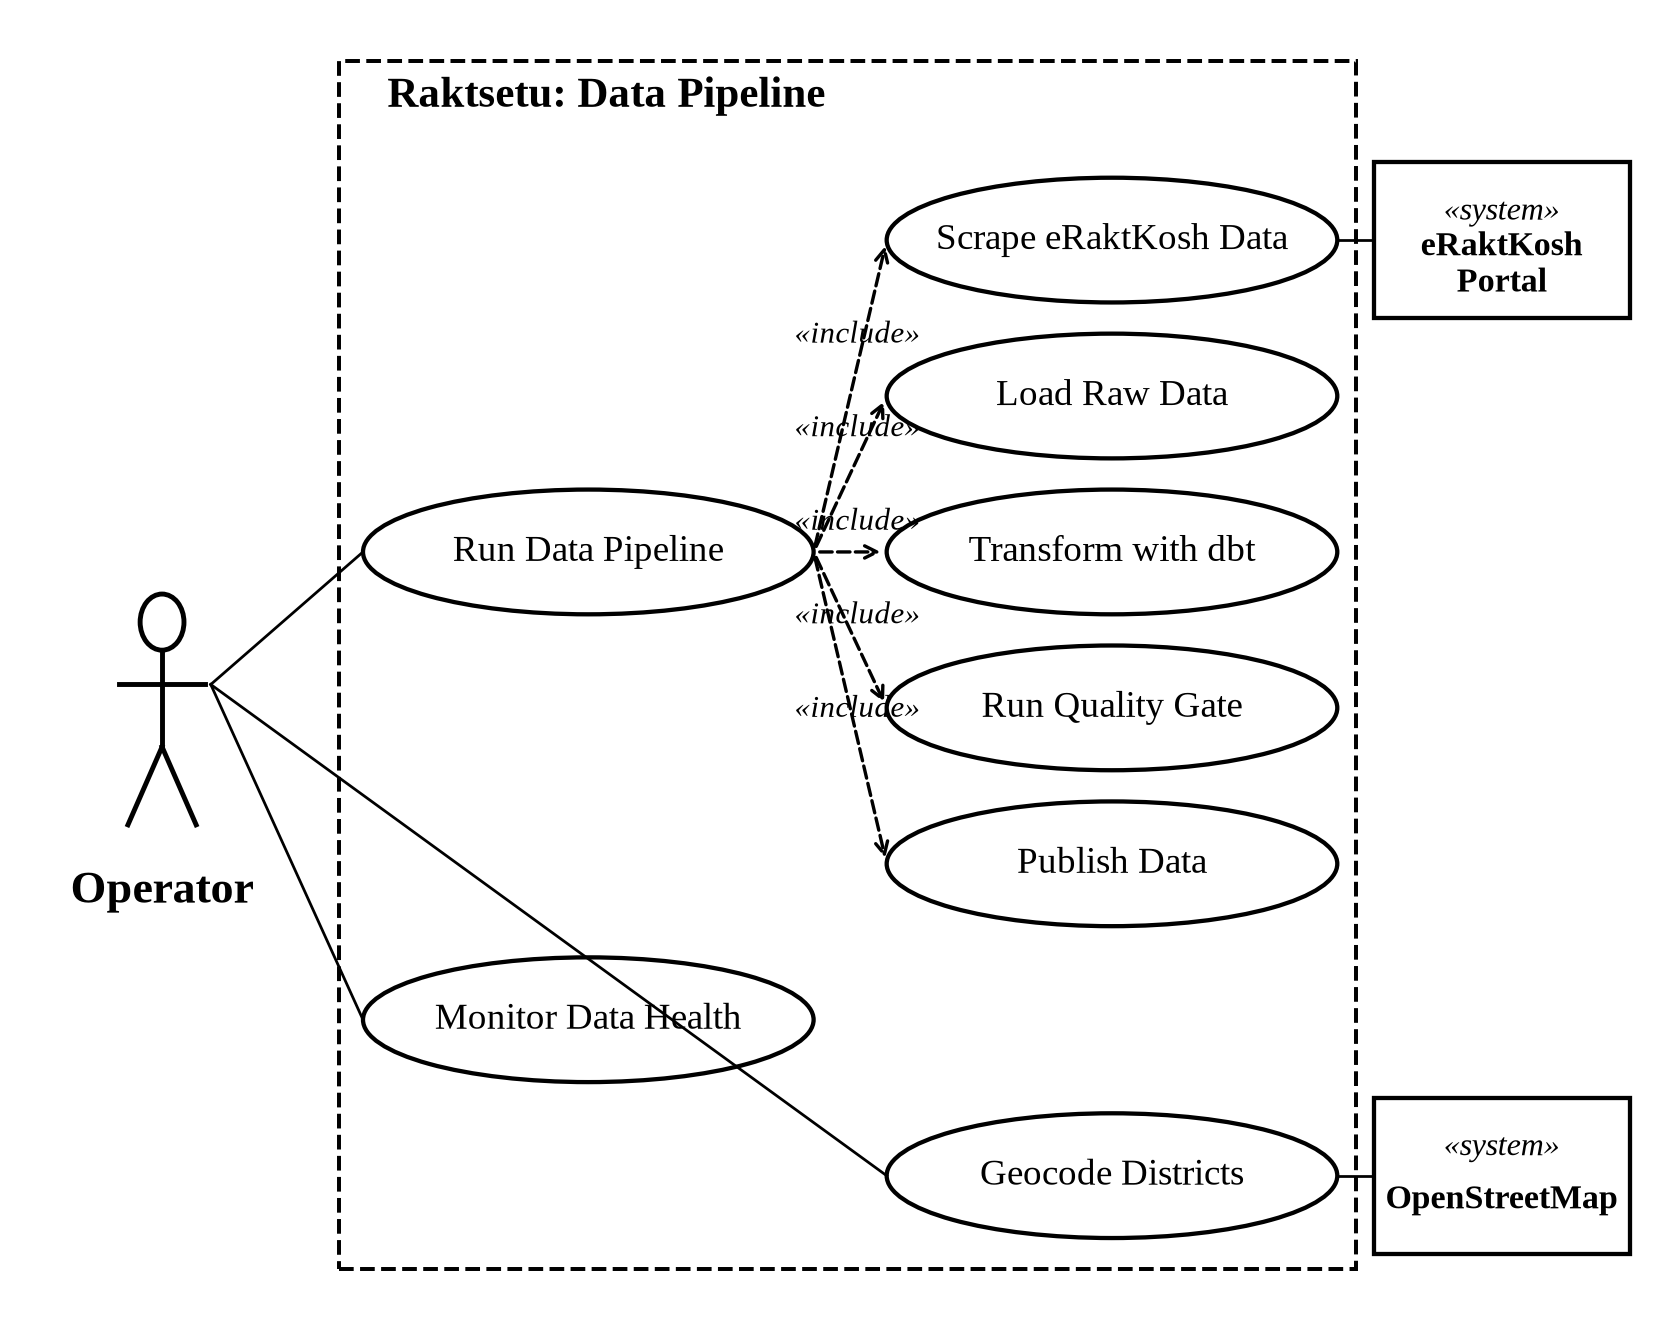
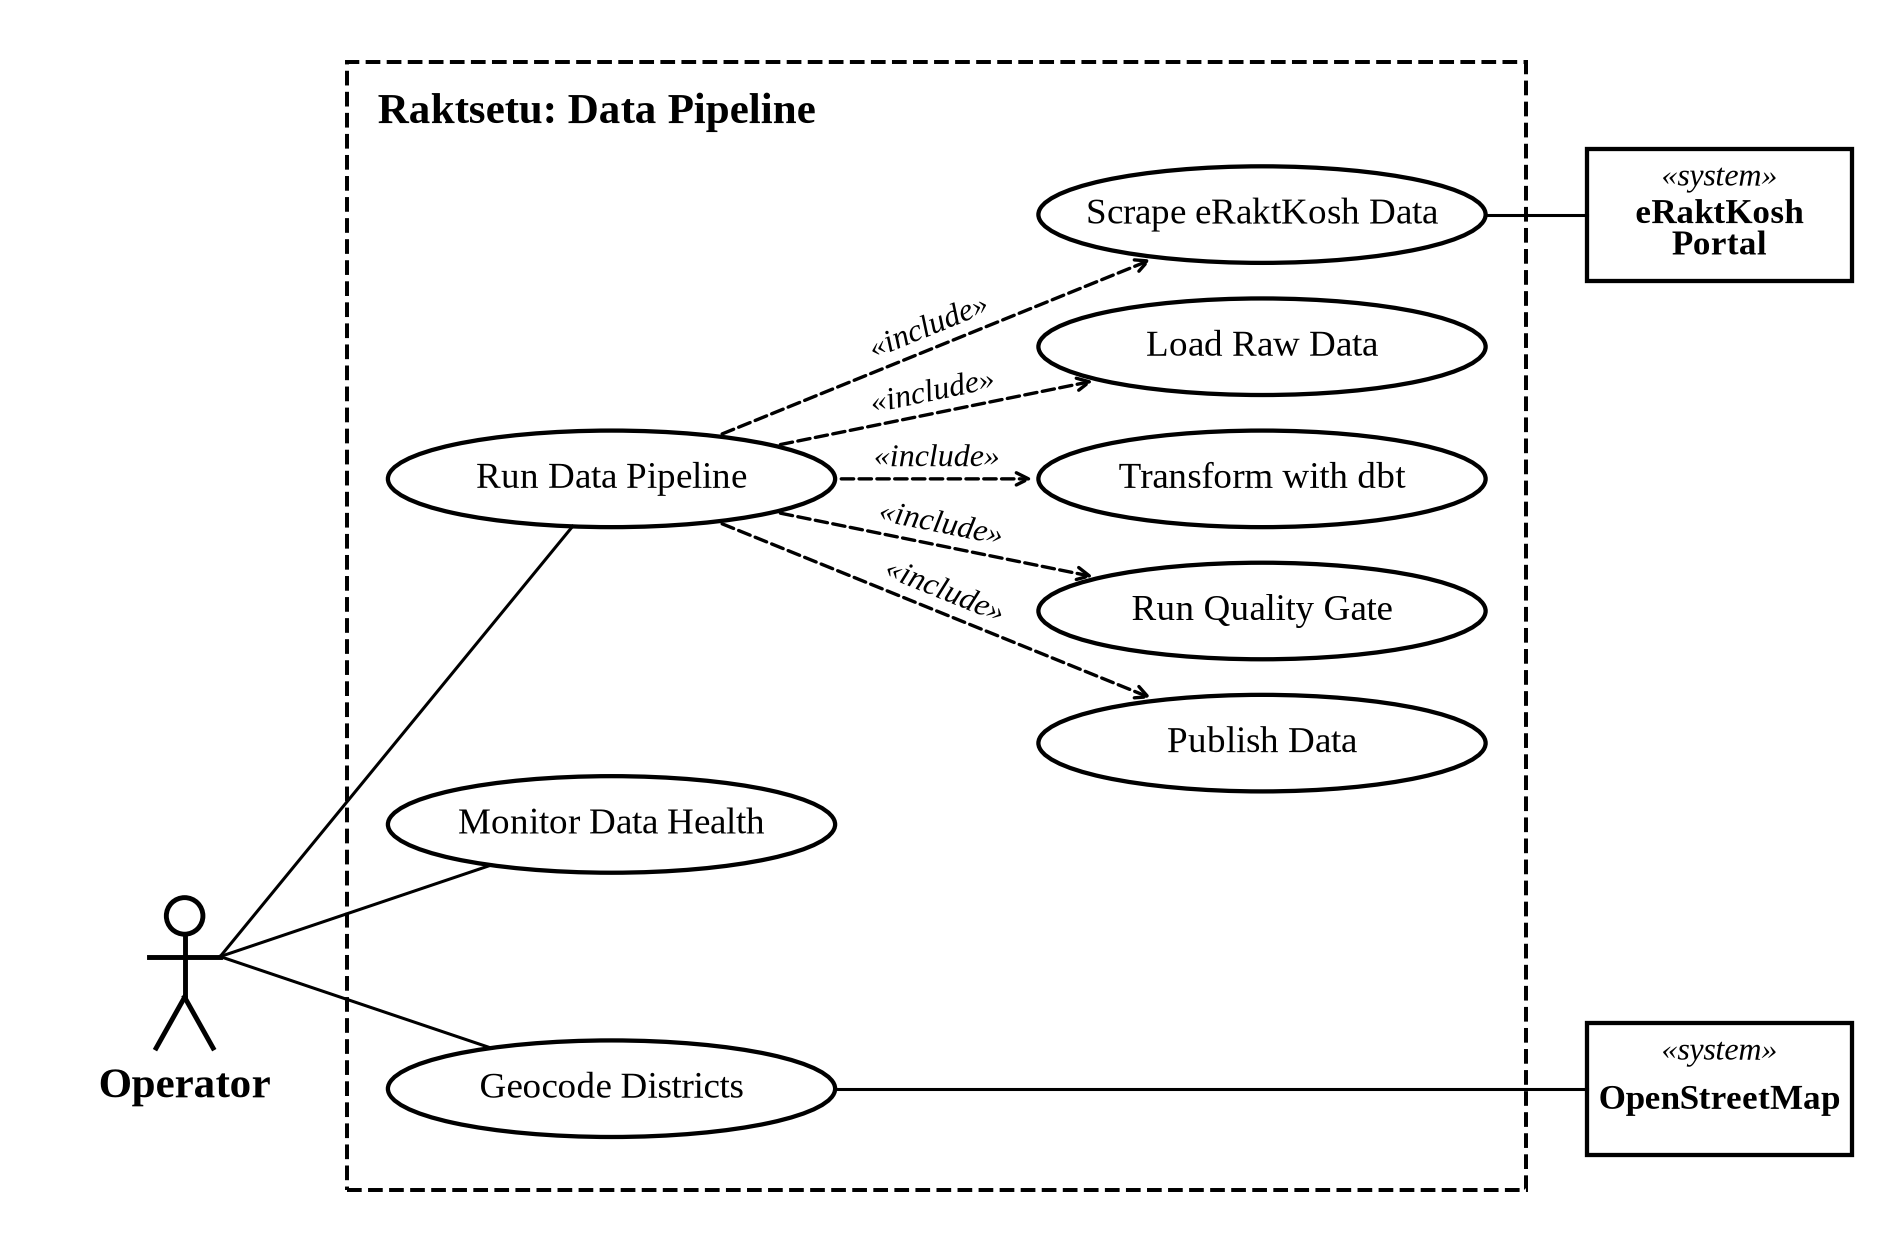
docs: redraw use case diagrams with clean, non-crossing layout

diff --git a/scripts/report/generate_diagrams.py b/scripts/report/generate_diagrams.py
@@ -8,11 +8,12 @@ stays readable when the image is placed at full page width (about 6.2 inches).
 Usage: uv run python scripts/report/generate_diagrams.py
 """
 
+import math
 import subprocess
 from pathlib import Path
 
 import matplotlib.pyplot as plt
-from matplotlib.patches import Ellipse, Rectangle
+from matplotlib.patches import Ellipse, Polygon, Rectangle
 
 OUT_DIR = Path(__file__).resolve().parents[2] / "docs" / "diagrams"
 plt.rcParams["font.family"] = ["Liberation Serif", "DejaVu Serif"]
@@ -242,108 +243,156 @@ def activity_pipeline():
 # ---------------------------------------------------------------------------
 # Use case diagram (stick-figure actors, ellipses, system boundary)
 # ---------------------------------------------------------------------------
-def _actor(ax, x, y, name):
+def _actor(ax, x, y, name, label_above=False):
     ax.add_patch(plt.Circle((x, y + 0.55), 0.18, fill=False, lw=1.6))
     ax.plot([x, x], [y + 0.37, y - 0.25], "k", lw=1.6)
     ax.plot([x - 0.35, x + 0.35], [y + 0.15, y + 0.15], "k", lw=1.6)
     ax.plot([x, x - 0.28], [y - 0.25, y - 0.75], "k", lw=1.6)
     ax.plot([x, x + 0.28], [y - 0.25, y - 0.75], "k", lw=1.6)
-    ax.text(x, y - 1.05, name, ha="center", va="top", fontsize=15, fontweight="bold")
+    ty, va = (y + 0.9, "bottom") if label_above else (y - 0.95, "top")
+    ax.text(x, ty, name, ha="center", va=va, fontsize=14, fontweight="bold")
 
 
 # ---------------------------------------------------------------------------
-# Use case diagrams (stick-figure actors, system actors, include / extend)
+# Use case diagrams (stick-figure actors, system actors, include / extend, generalization)
+# Layout is fixed by hand so that no line crosses another line, ellipse or label.
 # ---------------------------------------------------------------------------
-COL_X = (4.25, 8.55)
-EW, EH = 3.7, 0.8
+EW, EH = 4.4, 0.95
 
 
 def _system_actor(ax, x, y, name):
-    ax.add_patch(Rectangle((x - 1.05, y - 0.5), 2.1, 1.0, fill=False, lw=1.4))
-    ax.text(x, y + 0.18, "«system»", ha="center", va="center", fontsize=10.5, style="italic")
-    ax.text(x, y - 0.16, name, ha="center", va="center", fontsize=11, fontweight="bold")
+    ax.add_patch(Rectangle((x - 1.3, y - 0.65), 2.6, 1.3, fill=False, lw=1.4))
+    ax.text(x, y + 0.36, "«system»", ha="center", va="center", fontsize=10.5, style="italic")
+    ax.text(
+        x,
+        y - 0.12,
+        name,
+        ha="center",
+        va="center",
+        fontsize=11.5,
+        fontweight="bold",
+        linespacing=1.0,
+    )
 
 
-def draw_use_case(name, title, cases, actors, systems, links, rels, rows):
-    fig, ax = plt.subplots(figsize=(9.5, rows * 0.92 + 1.2))
-    ax.set_xlim(-0.4, 12.9)
-    ax.set_ylim(-0.9, rows + 0.4)
+def _edge(c, toward):
+    """Point on the ellipse centred at c, in the direction of `toward`."""
+    dx, dy = toward[0] - c[0], toward[1] - c[1]
+    t = 1 / math.hypot(dx / (EW / 2), dy / (EH / 2))
+    return c[0] + dx * t, c[1] + dy * t
+
+
+def draw_use_case(name, title, box, cases, actors, systems, links, rels, gens=None):
+    x0, y0, x1, y1 = box
+    xs = [x for _, x, _ in cases.values()] + [a[1] for a in actors] + [sy[1] for sy in systems]
+    xmin, xmax = min(xs + [x0]) - 1.6, max(xs + [x1]) + 1.6
+    ymin, ymax = y0 - 0.4, y1 + 0.4
+    fig, ax = plt.subplots(figsize=((xmax - xmin) * 0.6, (ymax - ymin) * 0.6))
+    ax.set_xlim(xmin, xmax)
+    ax.set_ylim(ymin, ymax)
+    ax.set_aspect("equal")
     ax.axis("off")
-    ax.add_patch(Rectangle((2.2, -0.6), 8.35, rows + 0.75, fill=False, lw=1.3, ls="--"))
-    ax.text(2.6, rows + 0.05, title, fontsize=14, fontweight="bold", va="top")
+    ax.add_patch(Rectangle((x0, y0), x1 - x0, y1 - y0, fill=False, lw=1.3, ls="--"))
+    ax.text(x0 + 0.3, y1 - 0.3, title, fontsize=14, fontweight="bold", va="top")
     pos = {}
-    for cid, (label, col, row) in cases.items():
-        x, y = COL_X[col], rows - 1 - row
+    for cid, (label, x, y) in cases.items():
         pos[cid] = (x, y)
         ax.add_patch(Ellipse((x, y), EW, EH, fill=False, lw=1.4))
         ax.text(x, y, label, ha="center", va="center", fontsize=12)
-    apos = {}
-    for aname, row in actors:
-        apos[aname] = (0.75, rows - 1 - row)
-        _actor(ax, 0.75, rows - 1 - row, aname)
-    for sname, row in systems:
-        apos[sname] = (11.75, rows - 1 - row)
-        _system_actor(ax, 11.75, rows - 1 - row, sname)
+    anchor = {}
+    for aname, x, y, *opt in actors:
+        _actor(ax, x, y, aname, label_above=bool(opt and opt[0]))
+        anchor[aname] = (x, y + 0.15, 0.35)
+    for sname, x, y in systems:
+        _system_actor(ax, x, y, sname)
+        anchor[sname] = (x, y, 1.3)
     for a, cid in links:
-        ax_, ay = apos[a]
-        cx, cy = pos[cid]
-        if ax_ < 5:
-            ax.plot([ax_ + 0.4, cx - EW / 2], [ay + 0.15, cy], "k", lw=0.9)
-        else:
-            ax.plot([ax_ - 1.05, cx + EW / 2], [ay, cy], "k", lw=0.9)
+        x, y, half = anchor[a]
+        c = pos[cid]
+        start = (x - half if c[0] < x else x + half, y)
+        end = _edge(c, start)
+        ax.plot([start[0], end[0]], [start[1], end[1]], "k", lw=1.0)
     for src, dst, kind in rels:
-        (x1, y1), (x2, y2) = pos[src], pos[dst]
-        start = (
-            x1 - EW / 2 if x1 > x2 else x1 + EW / 2 if x1 < x2 else x1,
-            y1 if x1 != x2 else y1 - EH / 2,
-        )
-        end = (
-            x2 + EW / 2 if x1 > x2 else x2 - EW / 2 if x1 < x2 else x2,
-            y2 if x1 != x2 else y2 + EH / 2,
-        )
+        start, end = _edge(pos[src], pos[dst]), _edge(pos[dst], pos[src])
         ax.annotate("", end, start, arrowprops=dict(arrowstyle="->", lw=1.1, linestyle="--"))
-        mx, my = start[0] + (end[0] - start[0]) * 0.6, start[1] + (end[1] - start[1]) * 0.6
-        ax.text(mx, my + 0.1, f"«{kind}»", ha="center", va="bottom", fontsize=10, style="italic")
+        dx, dy = end[0] - start[0], end[1] - start[1]
+        ang = math.degrees(math.atan2(dy, dx))
+        if ang > 90 or ang < -90:
+            ang -= 180 if ang > 0 else -180
+        L = math.hypot(dx, dy)
+        nx, ny = -dy / L, dx / L
+        if ny < 0:
+            nx, ny = -nx, -ny
+        mx, my = start[0] + dx * 0.5 + nx * 0.2, start[1] + dy * 0.5 + ny * 0.2
+        ax.text(
+            mx,
+            my,
+            f"«{kind}»",
+            ha="center",
+            va="center",
+            fontsize=10.5,
+            style="italic",
+            rotation=ang,
+            rotation_mode="anchor",
+        )
+    for children, parent, trunk_x in gens or []:
+        px, py = next((a[1], a[2]) for a in actors if a[0] == parent)
+        ys = []
+        for ch in children:
+            cx, cy = next((a[1], a[2]) for a in actors if a[0] == ch)
+            ax.plot([cx + 0.18, trunk_x], [cy + 0.55, cy + 0.55], "k", lw=1.0)
+            ys.append(cy + 0.55)
+        top = py - 0.8
+        ax.plot([trunk_x, trunk_x], [min(ys), top - 0.3], "k", lw=1.0)
+        ax.add_patch(
+            Polygon(
+                [(trunk_x - 0.17, top - 0.3), (trunk_x + 0.17, top - 0.3), (trunk_x, top)],
+                closed=True,
+                fill=True,
+                facecolor="white",
+                edgecolor="black",
+                lw=1.1,
+            )
+        )
     fig.savefig(OUT_DIR / f"{name}.png", dpi=220, bbox_inches="tight", facecolor="white")
     plt.close(fig)
 
 
 def use_case():
+    c0, c1 = 4.0, 10.0
     draw_use_case(
         "use_case_diagram",
         "Raktsetu: Public Website",
+        box=(1.4, -13.5, 12.6, 1.5),
         cases={
-            "emg": ("Search Emergency Blood", 0, 0),
-            "cmp": ("Check Blood Compatibility", 1, 0),
-            "near": ("Search Near My Location", 1, 1),
-            "find": ("Find Blood Centres", 0, 2),
-            "map": ("View Live Map", 1, 2),
-            "trend": ("View Trend & Trust Score", 1, 3),
-            "call": ("Call / Get Directions", 0, 4),
-            "rare": ("Check Rare Blood", 0, 5),
-            "short": ("View District Shortages", 0, 6),
-            "csv": ("Export CSV Report", 1, 6),
-            "net": ("View Network Statistics", 0, 7),
-            "donor": ("Check Donor Eligibility", 0, 8),
+            "cmp": ("Check Blood Compatibility", c0, 0),
+            "emg": ("Search Emergency Blood", c1, 0),
+            "near": ("Search Near My Location", c0, -1.3),
+            "map": ("View Live Map", c0, -2.6),
+            "find": ("Find Blood Centres", c1, -2.6),
+            "trend": ("View Trend & Trust Score", c0, -3.9),
+            "net": ("View Network Statistics", c1, -3.9),
+            "call": ("Call / Get Directions", c1, -5.6),
+            "rare": ("Check Rare Blood", c1, -8.0),
+            "csv": ("Export CSV Report", c0, -10.4),
+            "short": ("View District Shortages", c1, -10.4),
+            "donor": ("Check Donor Eligibility", c1, -12.9),
         },
         actors=[
-            ("Patient's Family", 0.2),
-            ("Doctor / Staff", 2.6),
-            ("Health Official", 5.0),
-            ("Blood Donor", 7.4),
+            ("Public User", 16.6, -1.8, True),
+            ("Patient's Family", 14.6, -5.75),
+            ("Doctor / Staff", 14.6, -8.15),
+            ("Health Official", 14.6, -10.55),
+            ("Blood Donor", 14.6, -13.05),
         ],
-        systems=[("Device GPS", 1.1)],
+        systems=[("Device GPS", -0.6, -1.3)],
         links=[
-            ("Patient's Family", "emg"),
-            ("Patient's Family", "find"),
+            ("Public User", "emg"),
+            ("Public User", "find"),
+            ("Public User", "net"),
             ("Patient's Family", "call"),
-            ("Doctor / Staff", "emg"),
-            ("Doctor / Staff", "find"),
             ("Doctor / Staff", "rare"),
-            ("Health Official", "find"),
             ("Health Official", "short"),
-            ("Health Official", "net"),
-            ("Blood Donor", "net"),
             ("Blood Donor", "donor"),
             ("Device GPS", "near"),
         ],
@@ -354,23 +403,30 @@ def use_case():
             ("trend", "find", "extend"),
             ("csv", "short", "extend"),
         ],
-        rows=9,
+        gens=[
+            (
+                ["Patient's Family", "Doctor / Staff", "Health Official", "Blood Donor"],
+                "Public User",
+                16.6,
+            )
+        ],
     )
     draw_use_case(
         "use_case_operator",
         "Raktsetu: Data Pipeline",
+        box=(1.4, -9.6, 13.0, 1.5),
         cases={
-            "run": ("Run Data Pipeline", 0, 2),
-            "scrape": ("Scrape eRaktKosh Data", 1, 0),
-            "load": ("Load Raw Data", 1, 1),
-            "dbt": ("Transform with dbt", 1, 2),
-            "gate": ("Run Quality Gate", 1, 3),
-            "pub": ("Publish Data", 1, 4),
-            "health": ("Monitor Data Health", 0, 5),
-            "geo": ("Geocode Districts", 1, 6),
+            "run": ("Run Data Pipeline", c0, -2.6),
+            "scrape": ("Scrape eRaktKosh Data", 10.4, 0),
+            "load": ("Load Raw Data", 10.4, -1.3),
+            "dbt": ("Transform with dbt", 10.4, -2.6),
+            "gate": ("Run Quality Gate", 10.4, -3.9),
+            "pub": ("Publish Data", 10.4, -5.2),
+            "health": ("Monitor Data Health", c0, -6.0),
+            "geo": ("Geocode Districts", c0, -8.6),
         },
-        actors=[("Operator", 3.0)],
-        systems=[("eRaktKosh\nPortal", 0), ("OpenStreetMap", 6)],
+        actors=[("Operator", -0.2, -7.45)],
+        systems=[("eRaktKosh\nPortal", 14.9, 0), ("OpenStreetMap", 14.9, -8.6)],
         links=[
             ("Operator", "run"),
             ("Operator", "health"),
@@ -385,7 +441,6 @@ def use_case():
             ("run", "gate", "include"),
             ("run", "pub", "include"),
         ],
-        rows=7,
     )
 
 
